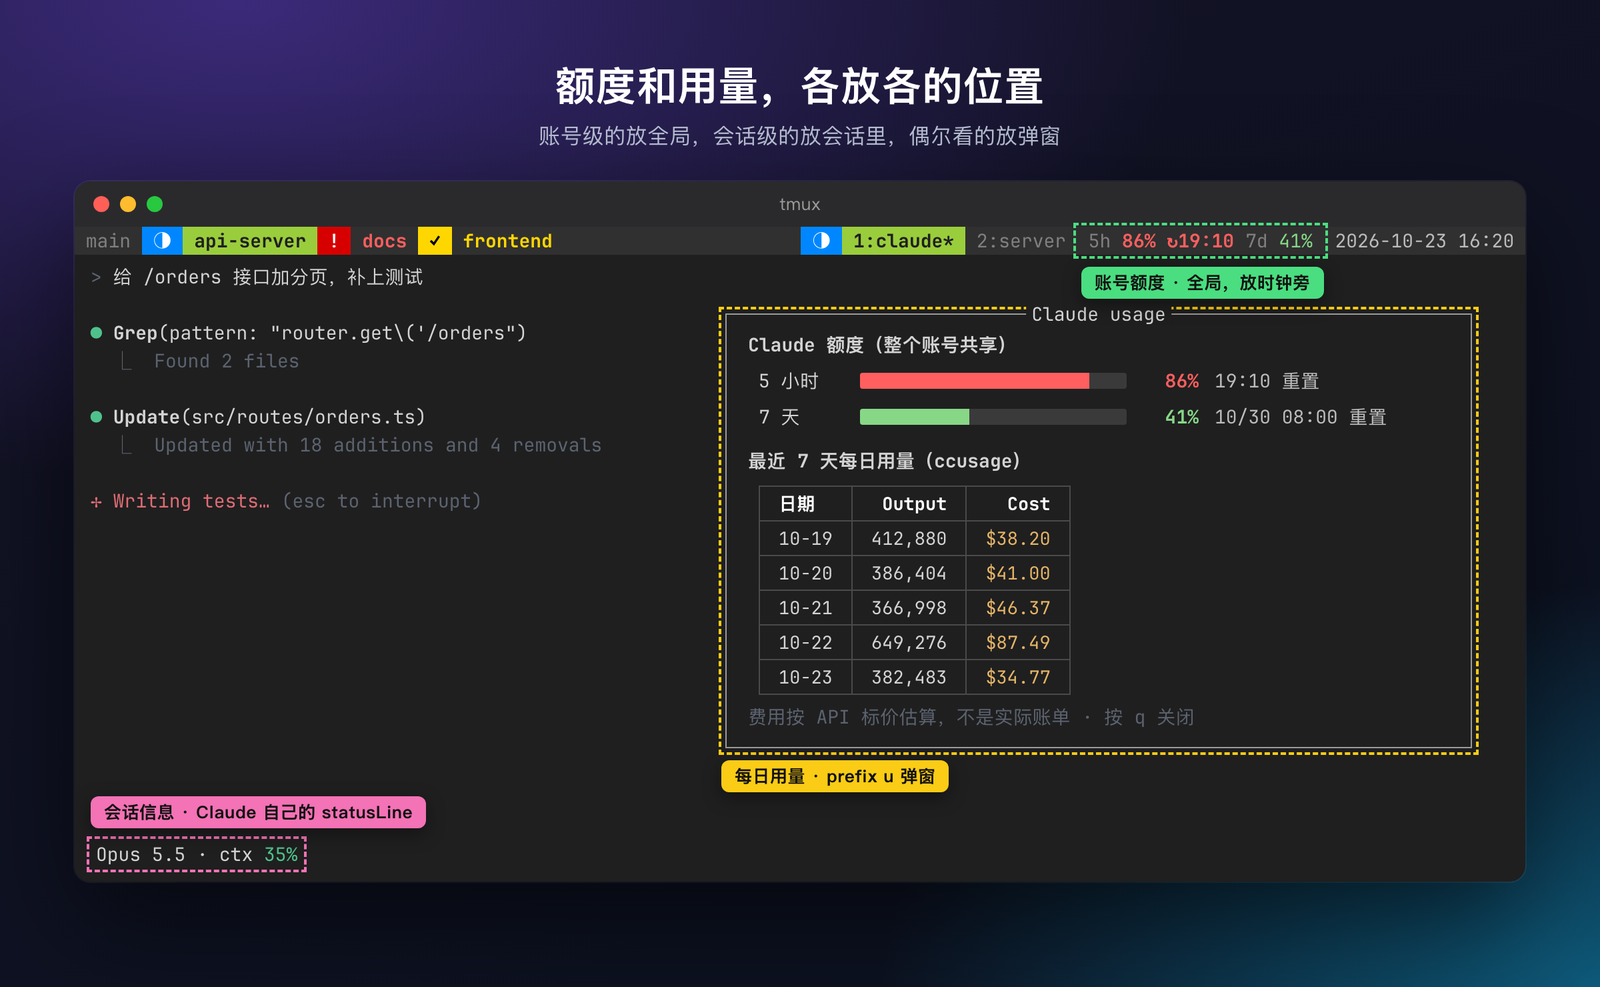
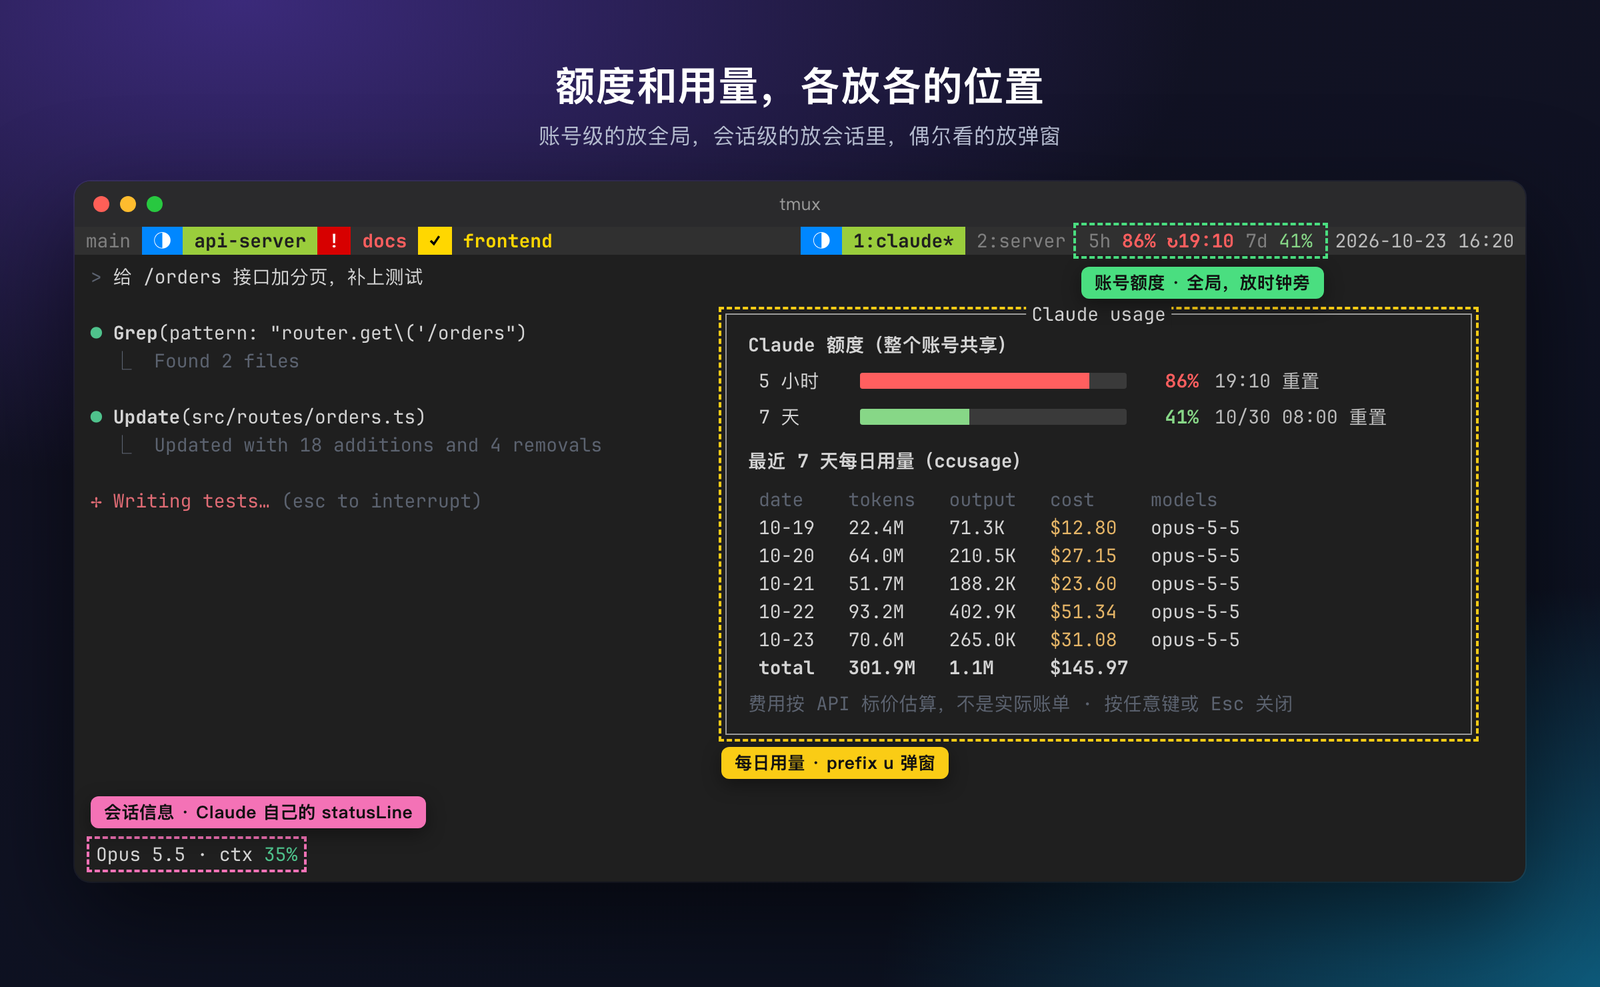
Esc closes every popup; compact daily usage table
- prefix u: build a one-row-per-day table from ccusage --json (the stock
  table is 40+ lines); when it fits, any key including Esc closes it, else
  fall back to less (Esc can't be bound there: arrow keys start with Esc)
- usage image uses made-up numbers

Changed region(s): [[0.4375, 0.4863, 0.9375, 0.8207], [0.7188, 0.4863, 0.7812, 0.6687]]

diff --git a/docs/src/scene.html b/docs/src/scene.html
@@ -305,15 +305,17 @@ if(scene==='usage'){
   const lim=`<span class="zone zl"><span style="color:#808080"> 5h </span><span style="color:#ff5f5f;font-weight:700">86% ↻19:10</span><span style="color:#808080"> 7d </span><span style="color:#87d787">41%</span> <span class="tag tl">${T('账号额度 · 全局，放时钟旁','Account limits · global, next to the clock')}</span></span>`;
   const sl=`<div class="zone zc" style="position:absolute;left:12px;bottom:10px;padding:0 4px">Opus 5.5 · ctx <span class="c-g">35%</span><span class="tag tc">${T('会话信息 · Claude 自己的 statusLine','Session info · Claude’s own statusLine')}</span></div>`;
   const pb=(n,p,c,at)=>`<div class="ub"><span class="un">${n}</span><span class="ut"><span style="width:${p}%;background:${c}"></span></span><span class="up" style="color:${c}">${p}%</span><span class="ua">${at}</span></div>`;
-  const rows=[['10-19','412,880','$38.20'],['10-20','386,404','$41.00'],['10-21','366,998','$46.37'],['10-22','649,276','$87.49'],['10-23','382,483','$34.77']];
-  const tbl=`<table class="ut2"><tr><th>${T('日期','Date')}</th><th>Output</th><th>Cost</th></tr>${rows.map(r=>`<tr><td>${r[0]}</td><td>${r[1]}</td><td class="c-y">${r[2]}</td></tr>`).join('')}</table>`;
+  const rows=[['10-19','22.4M','71.3K','$12.80'],['10-20','64.0M','210.5K','$27.15'],['10-21','51.7M','188.2K','$23.60'],['10-22','93.2M','402.9K','$51.34'],['10-23','70.6M','265.0K','$31.08']];
+  const tbl=`<div style="white-space:pre;margin:8px 0 0 8px"><span class="c-dim">date    tokens   output   cost     models</span>
+${rows.map(r=>`${r[0]}   ${r[1].padEnd(8)} ${r[2].padEnd(8)} <span class="c-y">${r[3].padEnd(8)}</span> opus-5-5`).join('\n')}
+<span class="b">total   301.9M   1.1M     $145.97</span></div>`;
   const pop=`<div class="popup zu" style="right:40px;top:44px;width:560px;padding:12px 16px;white-space:normal"><span class="pt"> Claude usage </span>
 <div class="b">${T('Claude 额度（整个账号共享）','Claude limits (shared by the whole account)')}</div>
 ${pb(T('5 小时','5 hours'),86,'#ff5f5f','19:10 '+T('重置','resets'))}
 ${pb(T('7 天','7 days'),41,'#87d787','10/30 08:00 '+T('重置','resets'))}
 <div class="b" style="margin-top:12px">${T('最近 7 天每日用量（ccusage）','Daily usage, last 7 days (ccusage)')}</div>
 ${tbl}
-<div class="c-dim" style="margin-top:6px">${T('费用按 API 标价估算，不是实际账单 · 按 q 关闭','Cost is an estimate at API list price · q to close')}</div><span class="tag tu">${T('每日用量 · prefix u 弹窗','Daily usage · prefix u popup')}</span></div>`;
+<div class="c-dim" style="margin-top:6px">${T('费用按 API 标价估算，不是实际账单 · 按任意键或 Esc 关闭','Cost is an estimate at API list price · any key or Esc closes')}</div><span class="tag tu">${T('每日用量 · prefix u 弹窗','Daily usage · prefix u popup')}</span></div>`;
   const body=`<div class="panes" style="height:470px"><div class="pane">${claudeRun(2)}</div>${sl}${pop}</div>`;
   html=`<div class="stage" style="width:1200px;height:740px">
     <div class="head"><h1>${T('额度和用量，各放各的位置','Limits and usage, each in its place')}</h1><p>${T('账号级的放全局，会话级的放会话里，偶尔看的放弹窗','Account-wide goes global, per-session stays in the session, occasional goes in a popup')}</p></div>

diff --git a/SKILL.md b/SKILL.md
@@ -100,7 +100,7 @@ vim-plug 管理：vim-sensible、NERDTree、commentary、surround、repeat、fug
 - `prefix g`：fzf popup 列出所有 Claude（等确认 > 跑完 > 在跑，同状态按时间先后），预览 pane 输出，回车跳过去；`prefix G`：直接跳到最早等你的（没有则最早跑完的）。`prefix a` 被 tmux-sensible 占为 last-window，所以没用。
 - 等确认时 `display-message` 提示，正盯着那个 pane 时不提示；正盯着的 pane 跑完不标 done。调试：`tmux-cc.sh list`。
 - 文件：`~/.config/tmux/bin/`（副本 `files/tmux-bin/`，install.sh tmux 部署）。`prefix v` = `changes`：popup（`-d #{pane_current_path}`）里 fzf 列 `git status --porcelain -z`（-z 避免带空格路径被加引号，改名记录跳过原路径），右侧 `delta` 预览 diff，enter 用 `changes.editor` 打开 `$EDITOR`，ctrl-r 刷新。`prefix e` = `explorer <pane_id> <path>`：当前 pane 左侧 `split-window -h -b -l 30%` 跑 yazi，pane 选项 `@explorer=1` 标记，再按一次关闭。yazi 配置 `files/yazi/yazi.toml` → `~/.config/yazi/`：`ratio=[0,1,1]`，edit opener 调 `edit-popup %s`（tmux 弹窗里开 `$EDITOR`；百分号不能直接写进 yazi 的 run，否则和占位符冲突）。图标靠 `font-symbols-only-nerd-font` 让 macOS 字体回退，不换终端字体。`prefix d` 是 tmux 默认 detach，别占用。
-- 额度 / 用量：`~/.claude/hooks/cc-statusline.sh`（副本 `files/claude/cc-statusline.sh`）是 Claude Code 的 statusLine，输出 `模型 · ctx N%`，同时把 statusLine 输入里的 `rate_limits.five_hour/seven_day` 写进 tmux 全局选项 `@cc_5h/@cc_7d`（%）、`@cc_*_ts`（重置 epoch）、`@cc_*_at`（可读时间）；不在 tmux 里时额度直接显示在 Claude 底部。tmux 状态栏右侧 `#{E:@cc_lim}` 按 <50 绿 / <80 黄 / ≥80 红显示，≥80 带 `↻重置时间`，过了重置时间（`#{e|<:%s,ts}`）自动隐藏。注意嵌套格式每层都会做一次 strftime，条件分支里的百分号要写 `%%%%`。tmux 启动时 `tmux-cc.sh usage-cache` 从 `~/.claude.json` 的 `cachedUsageUtilization` 兜底。`prefix u` 弹窗 = `tmux-cc.sh usage`：额度进度条 + `bunx ccusage@20.0.41 daily --last 7 --offline`，用 less 翻页。install.sh 只在没有 statusLine 时设置，已有则提示。
+- 额度 / 用量：`~/.claude/hooks/cc-statusline.sh`（副本 `files/claude/cc-statusline.sh`）是 Claude Code 的 statusLine，输出 `模型 · ctx N%`，同时把 statusLine 输入里的 `rate_limits.five_hour/seven_day` 写进 tmux 全局选项 `@cc_5h/@cc_7d`（%）、`@cc_*_ts`（重置 epoch）、`@cc_*_at`（可读时间）；不在 tmux 里时额度直接显示在 Claude 底部。tmux 状态栏右侧 `#{E:@cc_lim}` 按 <50 绿 / <80 黄 / ≥80 红显示，≥80 带 `↻重置时间`，过了重置时间（`#{e|<:%s,ts}`）自动隐藏。注意嵌套格式每层都会做一次 strftime，条件分支里的百分号要写 `%%%%`。tmux 启动时 `tmux-cc.sh usage-cache` 从 `~/.claude.json` 的 `cachedUsageUtilization` 兜底。`prefix u` 弹窗 = `tmux-cc.sh usage`：额度进度条 + `bunx ccusage@20.0.41 daily --last 7 --offline --json` 自己排成每天一行（ccusage 自带表格按 agent/模型拆行，40 多行放不下）；放得下就按任意键（含 Esc）关闭，放不下才用 less（less 里不能绑 Esc，方向键也以 Esc 开头，实测会误退出）。所有弹窗都能 Esc 关闭；yazi 侧栏用 q 或再按 Cmd+B 关。install.sh 只在没有 statusLine 时设置，已有则提示。
 - 提示文字语言由 tmux 选项 `@cc_lang`（zh 默认 / en）决定，tmux.conf 里显式设为 zh；脚本里 `load_lang` 只在要输出文字时才读。
 - README：英文 `README.md`（主）+ 中文 `README.zh-CN.md`；展示图由 `docs/src/scene.html?lang=en|zh` 仿真渲染，`bash docs/src/render.sh` 生成 `docs/img/en/`、`docs/img/zh/` 两套，中文翻译表在 scene.html 末尾的 `EN` 对象里。
 

diff --git a/README.md b/README.md
@@ -117,7 +117,7 @@ Each kind of number goes where it belongs:
 |---|---|---|
 | 5-hour / 7-day limit used | tmux status bar, right side, next to the clock. Green < 50%, yellow < 80%, red ≥ 80% (with reset time) | `rate_limits` in Claude Code's statusLine input, written into tmux by `cc-statusline.sh`. Until a Claude replies, it falls back to the cache in `~/.claude.json` |
 | Context used, model | Claude's own statusLine | statusLine input |
-| Daily tokens and cost, last 7 days | `prefix u` popup (scroll with less, `q` to close) | [ccusage](https://github.com/ryoppippi/ccusage), run through `bunx` / `npx` |
+| Daily tokens and cost, last 7 days | `prefix u` popup, one row per day (any key or Esc closes it) | [ccusage](https://github.com/ryoppippi/ccusage), run through `bunx` / `npx` |
 
 - Limits are account-wide, so they sit next to the clock instead of on any one session. Daily usage is something you check occasionally, so it lives in a popup instead of the bar.
 - ccusage estimates cost at API list price. On a subscription that is not your bill; use it to compare days.
